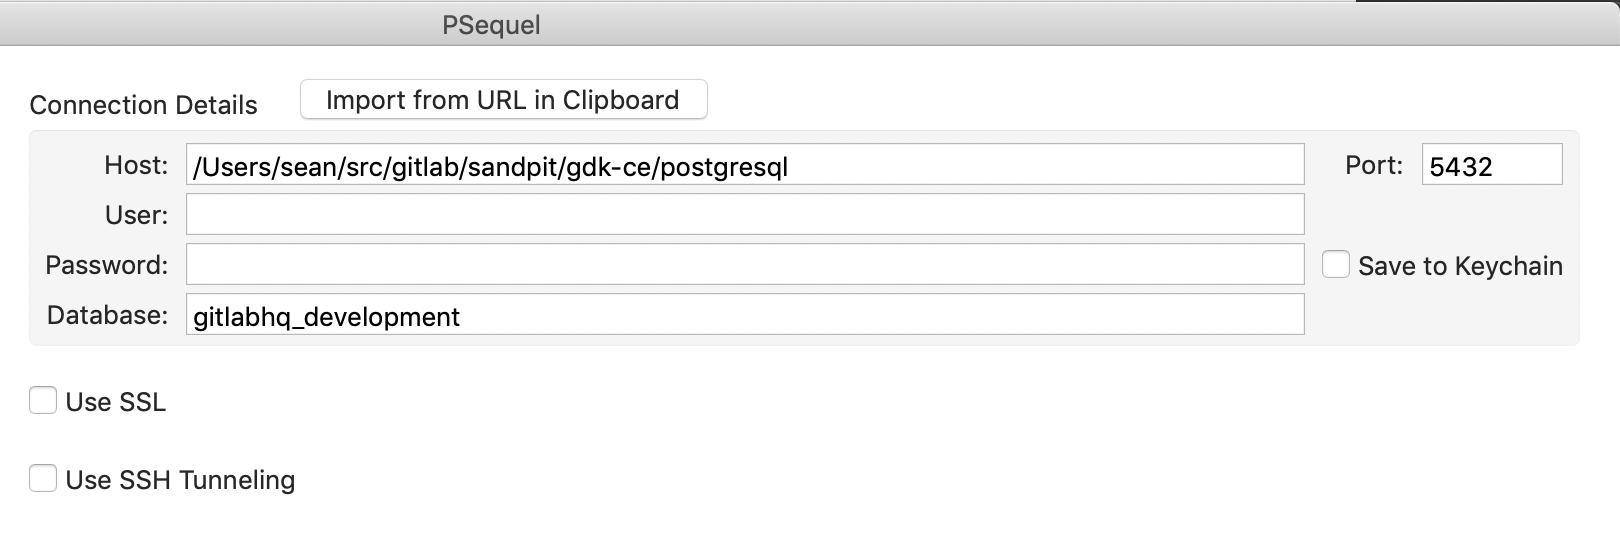
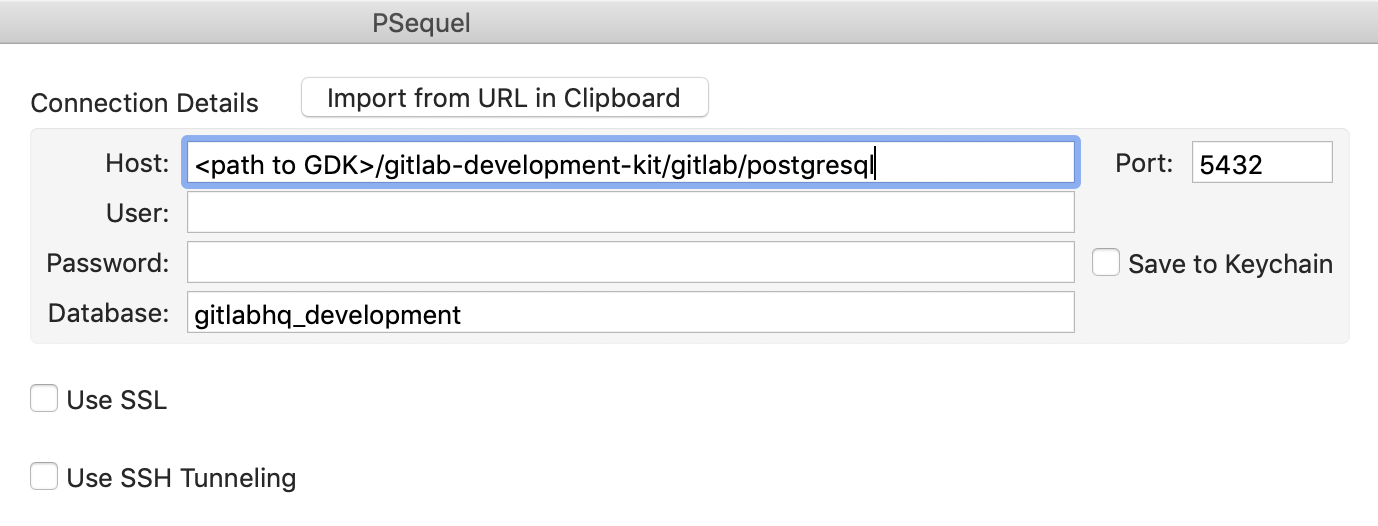
Cleaned up postgres text and image

diff --git a/doc/howto/postgresql.md b/doc/howto/postgresql.md
@@ -1,22 +1,25 @@
-## Accessing Postgres
+## Accessing PostgreSQL
 
 GDK uses the Postgres binaries installed on your system
-(see [install](../prepare.md) section), but keeps the Postgres
-datafiles within the GDK directory structure, under `<gdk directory>/postgresql/data`.
+(see [install](../prepare.md) section), but keeps the PostgreSQL
+datafiles within the GDK directory structure, under `<path to GDK>/gitlab-development-kit/gitlab/postgresql/data`.
 This means that the databases cannot be seen with `psql -l`.
 
-To access the database using `psql`, use the Rails `dbconsole` command.
-Use `$RAILS_ENV` to access the test environment. For example:
+To access the development database using `psql`, use the Rails `dbconsole` command from your GDK root:
 
 ```bash
-cd gitlab-cd/gitlab
-rails dbconsole
+bundle exec rails dbconsole
+```
+
+Use `$RAILS_ENV` to access the test environment:
+
+```bash
 RAILS_ENV=test bundle exec rails dbconsole
 ```
 
 To access the database using an external SQL editor, pass in the:
 
-- Datafile path - e.g. `/home/janedoe/projects/gitlab-development-kit/gitlab/postgresl`
+- Datafile path - e.g. `<path to GDK>/gitlab-development-kit/gitlab/postgresql`
 - Database port - e.g. `5432`
 - Database name - e.g. `gitlabhq_development` or `gitlabhq_test`
 
